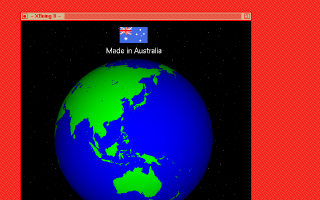
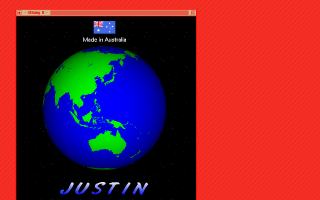
Machines page: a log under the screen; XBoing on a 1024x768 screen
A Log button opens a panel under the screen with what the machine is doing, a stamped line per step:
an OASIS image's layers fetched and unpacked (in that order now), the tree built and how long it took,
a run layer's build output (DOOM's make), the program's own output, its exit. It opens by itself while
an image is built, unless the visitor closed it; it keeps its last 400 lines.

XBoing's window is some 700 pixels high and ran off an 800x600 screen: linux/xboing-1997 now has
oasis/files/XF86Config-cirrus-1024 (1024x768 alone, so the virtual screen is the display and nothing
pans), as a layer after the run layer, so the three game images still share every cache entry.

diff --git a/src/machines.js b/src/machines.js
@@ -43,6 +43,32 @@ $('vmSpec').textContent = machine.spec;
 document.title = `MIRAGE — ${machine.name}`;
 installFullscreen($('stage'), $('fullscreen'));
 const setState = (text, cls = 'on') => { const p = $('vmState'); p.textContent = text; p.className = 'pill ' + cls; };
+// The log under the screen (machines.html #log): a line per step, kept to its last 400.
+const logEl = $('log'), logBtn = $('logBtn');
+let logAsked = null;                                     // the visitor's own choice wins over showLog()
+const setLog = (open) => { logEl.hidden = !open; logBtn.setAttribute('aria-pressed', String(open)); if (open) logEl.scrollTop = logEl.scrollHeight; };
+logBtn.addEventListener('click', () => { logAsked = logEl.hidden; setLog(logAsked); });
+const showLog = () => { if (logAsked === null) setLog(true); };
+let logPartial = '';
+const log = (text, { stamp = true } = {}) => {
+  const atEnd = logEl.scrollTop + logEl.clientHeight >= logEl.scrollHeight - 4;
+  for (const line of String(text).split('\n')) {
+    if (!line.trim()) continue;
+    const row = document.createElement('div');
+    if (stamp) { const t = document.createElement('span'); t.className = 't'; t.textContent = new Date().toTimeString().slice(0, 8) + ' '; row.append(t); }
+    row.append(line);
+    logEl.append(row);
+  }
+  while (logEl.childElementCount > 400) logEl.firstElementChild.remove();
+  if (atEnd) logEl.scrollTop = logEl.scrollHeight;
+};
+/** A program's output, which comes in pieces: whole lines go to the log, escapes and returns dropped. */
+const logOutput = (t) => {
+  logPartial += t.replace(/\x1b\[[0-9;?]*[A-Za-z]|\r/g, '');
+  const lines = logPartial.split('\n'); logPartial = lines.pop();
+  if (logPartial.length > 300) { lines.push(logPartial); logPartial = ''; }
+  if (lines.length) log(lines.join('\n'), { stamp: false });
+};
 
 function shelf(title, items, current) {
   $('shelfTitle').textContent = title;
@@ -116,6 +142,7 @@ async function pc() {
     if (session) { go({ m: 'pc', run: e.id }); return; }
     over.hidden = true;
     status.textContent = `loading ${e.file.split('/').pop()}…`;
+    log(`loading ${e.file}`);
     const res = await fetchWhole(e.file);   // in parts on a static host (src/fetch-whole.js)
     const body = /\.gz$/i.test(e.file) ? res.body.pipeThrough(new DecompressionStream('gzip')) : res.body;
     const raw = new Uint8Array(await new Response(body).arrayBuffer());
@@ -205,8 +232,8 @@ async function linux() {
     let lastLine = '';
     try {
       const s = await startLinux({ canvas, img, host,
-        onOutput: (t) => { lastLine = (lastLine + t.replace(/\x1b\[[0-9;?]*[A-Za-z]|\r/g, '')).split('\n').filter(Boolean).pop() || lastLine; hint.textContent = lastLine.slice(-120); },
-        onStatus: (t) => { status.textContent = t; if (/^exited/.test(t)) setState('exited', ''); } });
+        onOutput: (t) => { logOutput(t); lastLine = (lastLine + t.replace(/\x1b\[[0-9;?]*[A-Za-z]|\r/g, '')).split('\n').filter(Boolean).pop() || lastLine; hint.textContent = lastLine.slice(-120); },
+        onStatus: (t) => { status.textContent = t; if (/^exited/.test(t)) { setState('exited', ''); log(t); } } });
       session = { pause: s.pause, audio: s.audio };
       window.mirage = s;
       setState('running');
@@ -237,12 +264,15 @@ async function linux() {
       let img;
       try { img = { ...(await (await fetch(`oasis/images/${m.name}.json`)).json()), name: m.name }; } catch { return needs(m, 'Its manifest could not be read.'); }
       if ((img.layers || []).some((l) => l.docker)) return needs(m, 'This image is made from a Docker image\'s export, which takes the docker command: it runs from the OASIS server on a computer.');
-      over.hidden = true; setState('building', '');
+      over.hidden = true; setState('building', ''); showLog();
+      log(`${m.name}: ${(img.layers || []).length} layers`);
       const [{ buildTree }, { webIO }] = await Promise.all([import('./oasis-layers.js'), import('./oasis-web.js')]);
-      const io = webIO({ onProgress: (t) => { status.textContent = `${m.title}: ${t}…`; } });
-      io.onOutput = (t) => { const l = t.replace(/\x1b\[[0-9;?]*[A-Za-z]|\r/g, '').split('\n').filter(Boolean).pop(); if (l) hint.textContent = l.slice(-120); };
+      const t0 = performance.now();
+      const io = webIO({ onProgress: (t) => { status.textContent = `${m.title}: ${t}…`; log(t); } });
+      io.onOutput = (t) => { logOutput(t); const l = t.replace(/\x1b\[[0-9;?]*[A-Za-z]|\r/g, '').split('\n').filter(Boolean).pop(); if (l) hint.textContent = l.slice(-120); };
       let tree;
-      try { tree = await buildTree(img, io); } catch (e) { setState('failed', 'err'); return needs(m, String(e.message || e)); }
+      try { tree = await buildTree(img, io); } catch (e) { log(String(e.message || e)); setState('failed', 'err'); return needs(m, String(e.message || e)); }
+      log(`the tree is built (${tree.nodes.size} paths, ${((performance.now() - t0) / 1000).toFixed(1)} s); starting ${img.entry && img.entry.run}`);
       status.textContent = `starting ${m.title}…`;
       await start(m, img, tree.host());
     };

diff --git a/src/oasis-layers.js b/src/oasis-layers.js
@@ -203,26 +203,24 @@ const RUN_PATH = '/usr/local/sbin:/usr/local/bin:/usr/sbin:/usr/bin:/sbin:/bin';
  */
 export async function buildTree(img, io) {
   const tree = new Tree(), say = io.onProgress || (() => {});
+  const get = async (src, what) => { const b = await io.fetchBytes(src); say(`unpacking ${what || src.split('/').pop()}`); return b; };   // fetched, then unpacked
   let chain = '';
   for (const l of img.layers || []) {
     chain = await sha256(chain + JSON.stringify(l));
     if (l.docker) throw new Error(`oasis: ${img.name || 'this image'} is a Docker image's export — it needs node tools/oasis.mjs`);
-    if (l.deb) { say(`unpacking ${l.deb.split('/').pop()}`); tree.addEntries(tarEntries(await debData(await io.fetchBytes(l.deb))), l.into || ''); }
-    else if (l.tar) { say(`unpacking ${l.tar.split('/').pop()}`); let b = await io.fetchBytes(l.tar); if (isGzip(b)) b = await gunzip(b); tree.addEntries(tarEntries(b), l.into || ''); }
+    if (l.deb) tree.addEntries(tarEntries(await debData(await get(l.deb))), l.into || '');
+    else if (l.tar) { let b = await get(l.tar); if (isGzip(b)) b = await gunzip(b); tree.addEntries(tarEntries(b), l.into || ''); }
     else if (l.zip && l.member) {
-      say(`unpacking ${l.member}`);
-      const inner = (await unzip(await io.fetchBytes(l.zip))).find((f) => f.path.toLowerCase() === l.member.toLowerCase());
+      const inner = (await unzip(await get(l.zip, l.member))).find((f) => f.path.toLowerCase() === l.member.toLowerCase());
       if (!inner) throw new Error(`oasis: ${l.member} is not in ${l.zip}`);
       tree.addEntries(tarEntries(isGzip(inner.bytes) ? await gunzip(inner.bytes) : inner.bytes), l.into || '');
     } else if (l.lha) {
-      say(`unpacking ${l.lha}`);
-      const inner = (await unzip(await io.fetchBytes(l.zip))).find((f) => f.path.toLowerCase() === l.lha.toLowerCase());
+      const inner = (await unzip(await get(l.zip, l.lha))).find((f) => f.path.toLowerCase() === l.lha.toLowerCase());
       if (!inner) throw new Error(`oasis: ${l.lha} is not in ${l.zip}`);
       for (const f of unlha(inner.bytes)) { const to = l.files ? l.files[f.path] : f.path; if (to) tree.file(norm((l.into || '') + '/' + to), f.bytes); }
     } else if (l.zip) {
-      say(`unpacking ${l.zip.split('/').pop()}`);
-      for (const f of await unzip(await io.fetchBytes(l.zip))) tree.file(norm(f.path), f.bytes);
-    } else if (l.gz) { say(`unpacking ${l.gz.split('/').pop()}`); tree.file(l.to, await gunzip(await io.fetchBytes(l.gz))); }
+      for (const f of await unzip(await get(l.zip))) tree.file(norm(f.path), f.bytes);
+    } else if (l.gz) tree.file(l.to, await gunzip(await get(l.gz)));
     else if (l.file) tree.file(l.to, await io.fetchBytes(l.file));
     else if (l.busybox) {
       const bin = norm('/' + (l.into || 'bin'));

diff --git a/machines.html b/machines.html
@@ -56,7 +56,7 @@
   }
 
   /* The machine's window: its title strip, then its screen. */
-  #vm { display: grid; grid-template-rows: auto minmax(0, 1fr) auto; min-height: 0; padding: 12px; }
+  #vm { display: grid; grid-template-rows: auto minmax(0, 1fr) auto auto; min-height: 0; padding: 12px; }
   .vmtop { display: flex; align-items: center; gap: 10px; flex-wrap: nowrap; overflow-x: auto; background: var(--panel);
            border: 1px solid var(--edge); border-bottom: none; border-radius: 9px 9px 0 0; padding: 7px 10px; }
   .vmtop > * { flex: none; }
@@ -78,6 +78,11 @@
   #stage:fullscreen #screen { width: 100vw; height: 100vh; }
   #under { color: var(--dim); padding: 6px 2px 0; font-size: 11px; display: flex; gap: 14px; white-space: nowrap; overflow: hidden; }
   #under #status { color: var(--ink); }
+  /* The log: what the machine is doing — an OASIS image's layers fetched and unpacked, a run layer's
+     build, the program's own output — under the screen, folded away until asked for. */
+  #log { margin-top: 6px; max-height: 9.5em; overflow: auto; background: #070a0e; border: 1px solid var(--edge); border-radius: 6px;
+         padding: 5px 8px; font: 11px/1.4 ui-monospace, Menlo, monospace; color: var(--dim); white-space: pre-wrap; word-break: break-all; }
+  #log .t { color: #4d6a60; }
 
   /* A chooser drawn over the screen, in the idiom of the machine. */
   .over { position: absolute; inset: 0; overflow: auto; }
@@ -132,10 +137,12 @@
       <span class="sep"></span>
       <button id="pause">Pause</button>
       <button id="sound" aria-pressed="true" title="Sound Blaster and speaker">Sound</button>
+      <button id="logBtn" aria-pressed="false" title="What the machine is doing: layers fetched and built, its output">Log</button>
       <button id="fullscreen" title="Fullscreen (Alt+Enter)">Fullscreen</button>
     </div>
     <div id="stage"><canvas id="screen" width="640" height="400" tabindex="0"></canvas><div id="over" class="over" hidden></div></div>
     <div id="under"><span id="status">starting…</span><span id="hint"></span></div>
+    <div id="log" hidden></div>
   </div>
   <aside>
     <div class="bar" id="shelfTitle">Programs</div>
